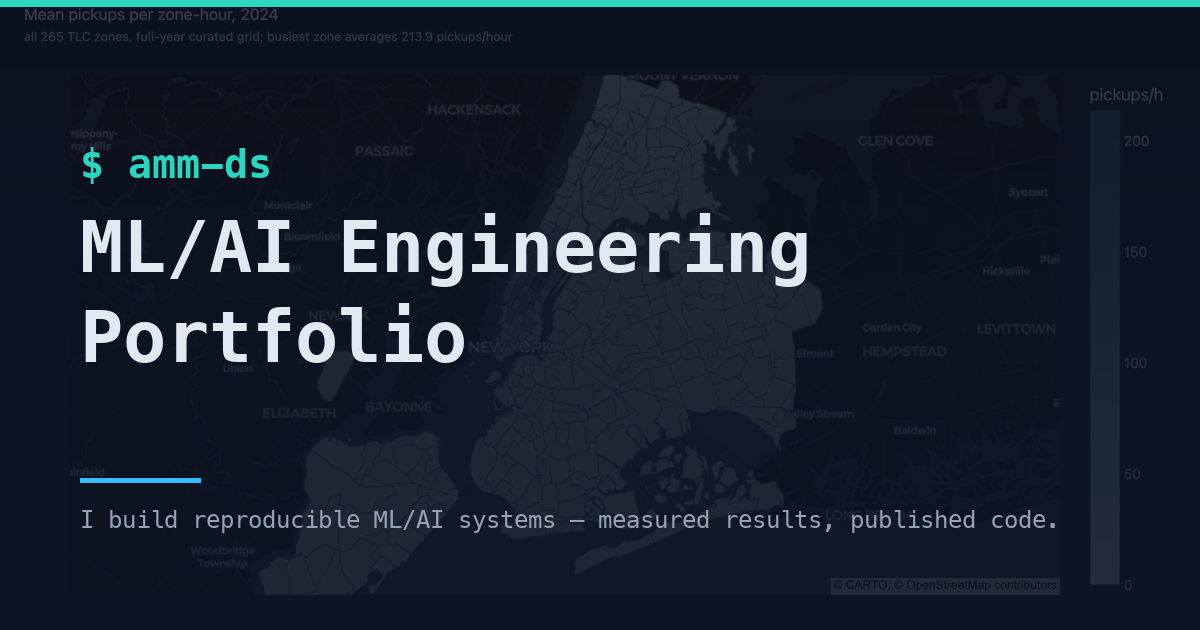
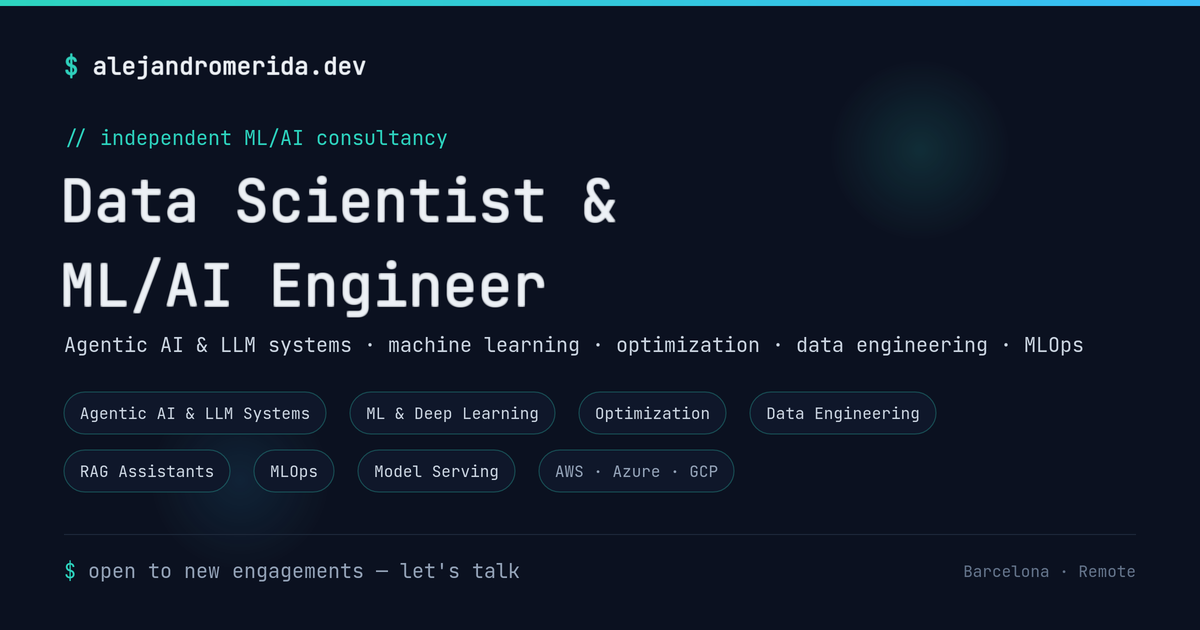
feat(site): new OG social card — consultancy positioning, aligned share meta
The 1200x630 card now presents the freelancing positioning (Data Scientist
& ML/AI Engineer, capability chips, open-to-engagements line); og:title/
og:description/twitter/document title aligned with it. LinkedIn/Slack/X
previews of any link to the domain pick the card up from the static head.

diff --git a/apps/showcase-web/index.html b/apps/showcase-web/index.html
@@ -13,10 +13,13 @@
     <meta name="theme-color" content="#0f172a" />
     <meta name="build-sha" content="dev" />
     <meta property="og:site_name" content="alejandromerida.dev" />
-    <meta property="og:title" content="alejandromerida.dev — ML/AI Engineering Portfolio" />
+    <meta
+      property="og:title"
+      content="alejandromerida.dev — Data Scientist & ML/AI Engineer"
+    />
     <meta
       property="og:description"
-      content="End-to-end ML/AI systems — agentic AI, forecasting, optimization, serving — every claim reproducible."
+      content="Independent ML/AI consultancy — agentic AI & LLM systems, machine learning, optimization, data engineering, MLOps. Open to new engagements."
     />
     <meta property="og:type" content="website" />
     <meta property="og:url" content="https://alejandromerida.dev/" />
@@ -25,16 +28,19 @@
       content="https://alejandromerida.dev/social-card.png"
     />
     <meta name="twitter:card" content="summary_large_image" />
-    <meta name="twitter:title" content="alejandromerida.dev — ML/AI Engineering Portfolio" />
+    <meta
+      name="twitter:title"
+      content="alejandromerida.dev — Data Scientist & ML/AI Engineer"
+    />
     <meta
       name="twitter:description"
-      content="End-to-end ML/AI systems — agentic AI, forecasting, optimization, serving — every claim reproducible."
+      content="Independent ML/AI consultancy — agentic AI & LLM systems, machine learning, optimization, data engineering, MLOps. Open to new engagements."
     />
     <meta
       name="twitter:image"
       content="https://alejandromerida.dev/social-card.png"
     />
-    <title>alejandromerida.dev — ML/AI Engineering Portfolio</title>
+    <title>alejandromerida.dev — Data Scientist & ML/AI Engineer</title>
   </head>
   <body>
     <div id="root"></div>
